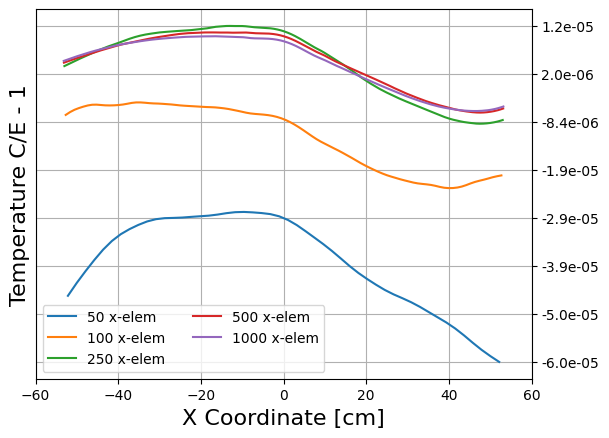
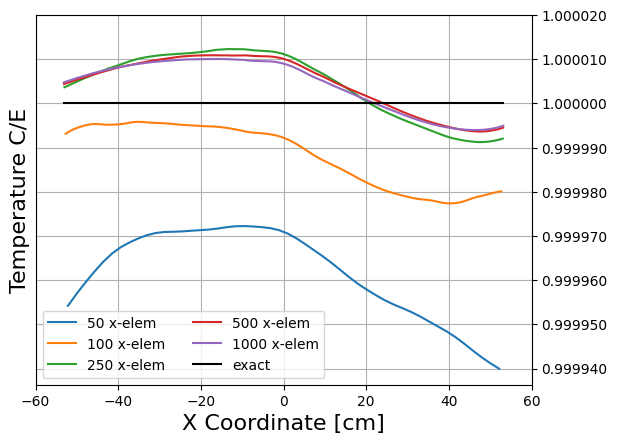
temperature C/E improved for paper

Changed region(s): [[0.0, 0.0, 0.9984, 0.9795]]

diff --git a/simulations/visualization/no_ss_no_mesh_template_flux_relaxation_on/viz.py b/simulations/visualization/no_ss_no_mesh_template_flux_relaxation_on/viz.py
@@ -31,7 +31,7 @@ for n in n_elems:
     xx[n] = pd.read_csv(f"openmc_{n}_temp.csv").loc[:,"x"]
     temps[n] = pd.read_csv(f"openmc_{n}_temp.csv").loc[:,"temp"]
     cardinal_fluxes[n] = pd.read_csv(f"openmc_{n}_flux.csv").loc[:,"flux"]
-
+ones = np.ones(len(xx[1000]))
 
 # plot 50 mesh element temperature
 plt.plot(xx[50],temps[50],'-ro')
@@ -57,8 +57,8 @@ for n in n_elems:
     ratios_temp_num_to_analy[n] = []
     ratios_flux_num_to_analy[n] = [] 
     for i in range(n):
-        ratios_flux_num_to_analy[n].append(cardinal_fluxes[n][i]/analytical_phi[n][i]-1)
-        ratios_temp_num_to_analy[n].append(temps[n][i]/analytical_T[n][i]-1)
+        ratios_flux_num_to_analy[n].append(cardinal_fluxes[n][i]/analytical_phi[n][i])
+        ratios_temp_num_to_analy[n].append(temps[n][i]/analytical_T[n][i])
 
 # #plot individual C/E
 # for n in n_elems:
@@ -66,7 +66,7 @@ for n in n_elems:
 #     plt.xticks([-60,-40,-20,0,20,40,60])
 #     plt.yticks(np.linspace(np.min(ratios_flux_num_to_analy[n]),np.max(ratios_flux_num_to_analy[n]),5))
 #     plt.xlabel("X Coordinate [cm]")
-#     plt.ylabel(r"Flux C/E - 1")
+#     plt.ylabel(r"Flux C/E")
 #     plt.title(f"Ratio Numerical to Analytical Flux {n} Mesh Elements")
 #     plt.legend()
 #     plt.grid()
@@ -76,14 +76,18 @@ for n in n_elems:
 # plot all temp C/E on one plot
 for n in n_elems:
     plt.plot(xx[n],ratios_temp_num_to_analy[n],label=f"{n} x-elem")
+plt.plot(xx[1000],ones,'k',label="exact")
 plt.xticks([-60,-40,-20,0,20,40,60])
 dict_min = min(i for v in ratios_temp_num_to_analy.values() for i in v)
 dict_max = max(i for v in ratios_temp_num_to_analy.values() for i in v)
-plt.yticks(np.linspace(dict_min,dict_max,8))
+# plt.yticks(np.linspace(dict_min,dict_max,8))
+plt.yticks([0.99994,0.99995,0.99996,0.99997,0.99998,0.99999,1,1.00001,1.00002])
 plt.gca().yaxis.tick_right()
 plt.gca().yaxis.set_major_formatter(mtick.FormatStrFormatter('%.1e'))
 plt.xlabel("X Coordinate [cm]",fontsize=16)
-plt.ylabel(r"Temperature C/E - 1",fontsize=16)
+plt.ylabel(r"Temperature C/E",fontsize=16)
+plt.gca().yaxis.tick_right()
+plt.gca().yaxis.set_major_formatter(mtick.FormatStrFormatter('%.6f'))
 plt.yticks()
 # plt.title(f"Ratio Numerical to Analytical Temp All Meshes. 200 Picard Iterations")
 plt.legend(ncol=2)
@@ -101,7 +105,7 @@ plt.yticks(np.linspace(dict_min,dict_max,8))
 plt.gca().yaxis.tick_right()
 plt.gca().yaxis.set_major_formatter(mtick.FormatStrFormatter('%.1e'))
 plt.xlabel("X Coordinate [cm]",fontsize=16)
-plt.ylabel(r"Flux C/E - 1",fontsize=16)
+plt.ylabel(r"Flux C/E",fontsize=16)
 # plt.title("Ratio Numerical to Analytical Flux All Meshes. 200 Picard Iterations")
 plt.legend(ncol=2)
 plt.grid()
